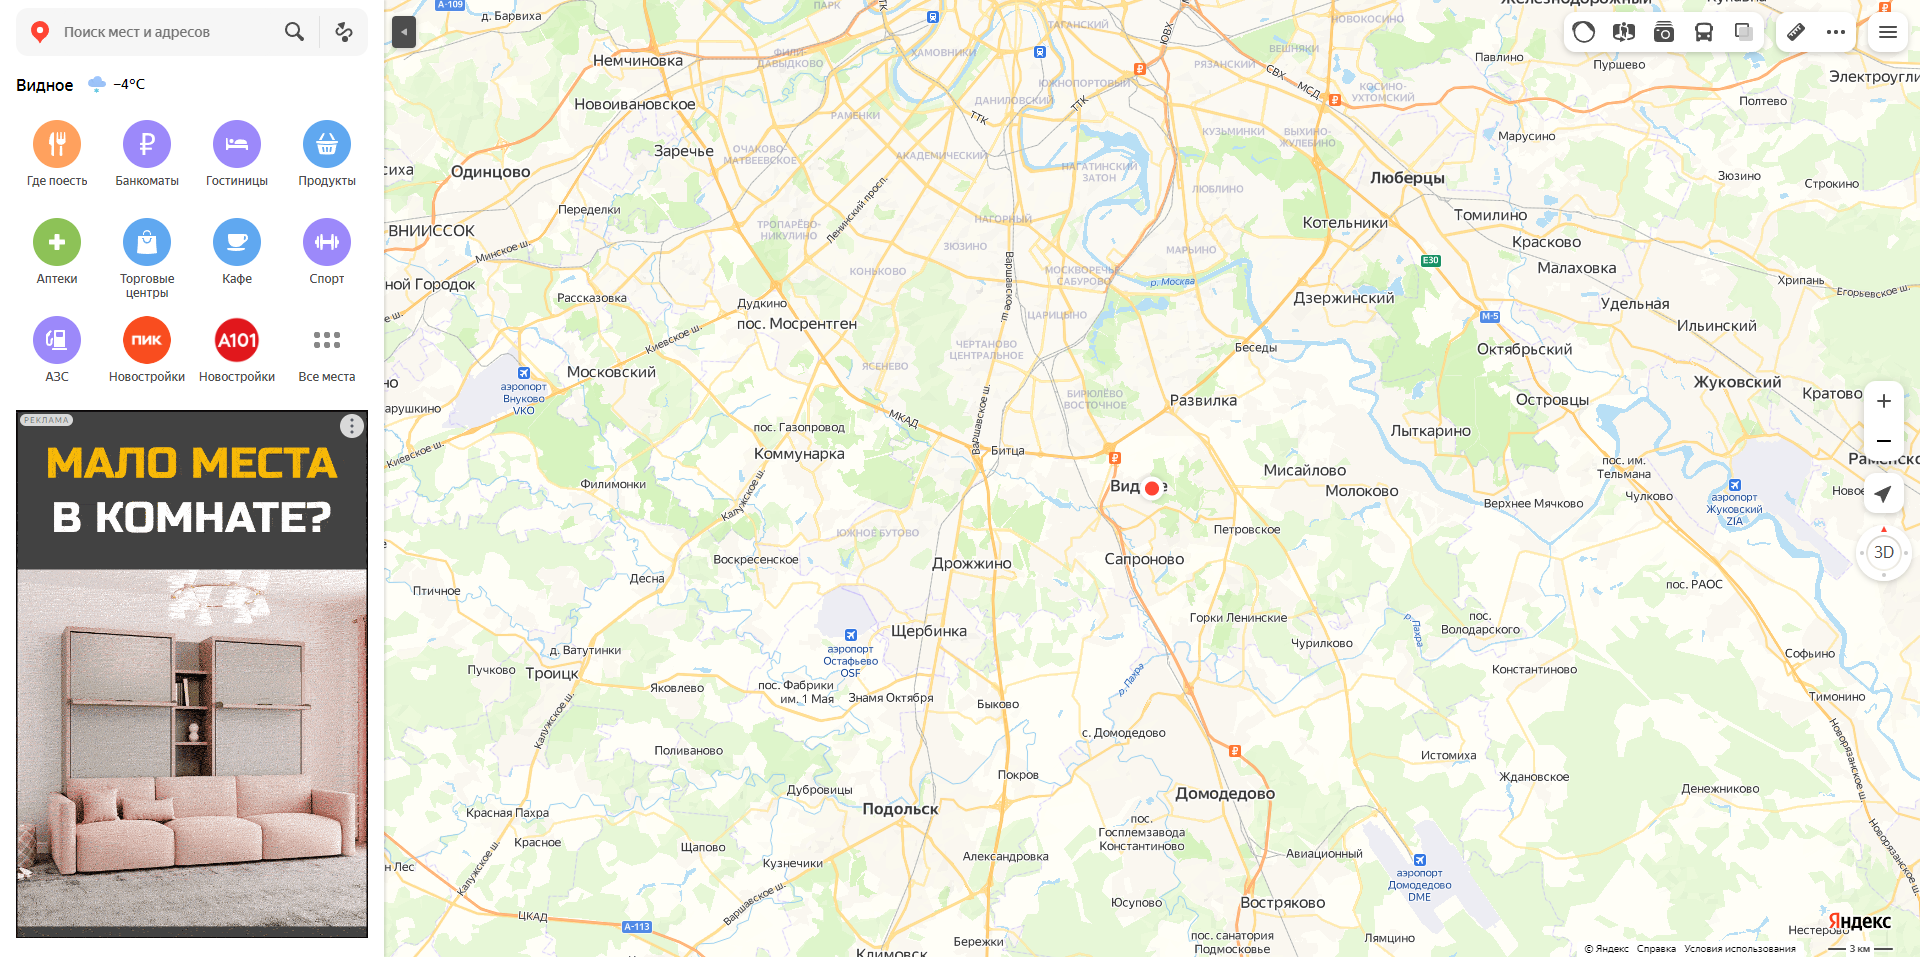
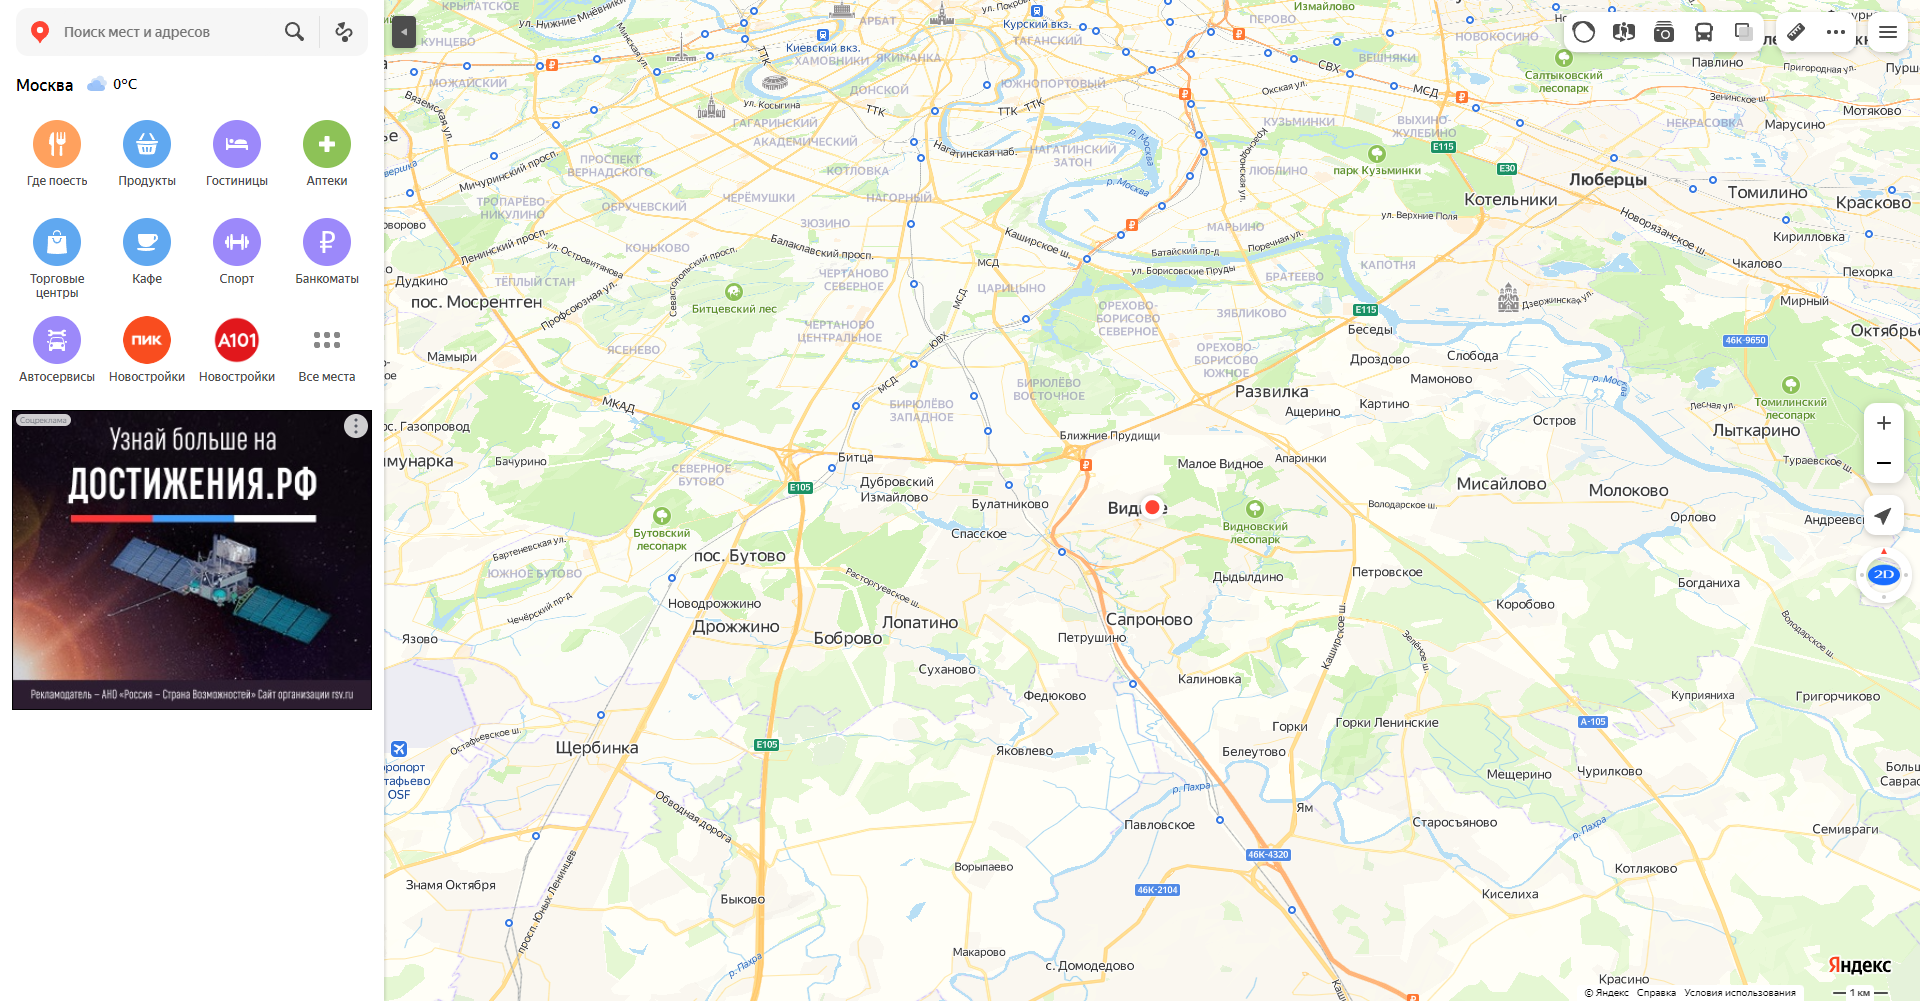
Updated files

diff --git a/tests/map_page_positive.py b/tests/map_page_positive.py
@@ -34,7 +34,7 @@ class TestMapPagePositive:
             page.enter_searching_address(driver, toponyms_name)
             page.wait_page_loaded()
             page.switch_to_3D_map_click(driver)
-            page.increase_map_size()
+            page.increase_map_size(driver)
             page.wait_page_loaded()
         with allure.step("Шаг 3: Выполнить сравнение ожидаемого и фактического результатов теста."):
             parsed_toponyms_name = page.get_toponym_descript(driver)
@@ -42,6 +42,8 @@ class TestMapPagePositive:
                 allure.attach(page.get_page_screenshot_PNG(),
                               name="search_address_FAILED",
                               attachment_type=allure.attachment_type.PNG)
+                page.clear_searching_field(driver)
+                page.switch_off_3D_map_mode(driver)
                 raise Exception("Названия(части названия) искомого топонима нет в результатах поиска системы!")
             else:
                 assert "космонавтики" in parsed_toponyms_name
@@ -50,6 +52,8 @@ class TestMapPagePositive:
                               name="search_address_PASSED",
                               attachment_type=allure.attachment_type.PNG)
                 page.clear_searching_field(driver)
+                page.switch_off_3D_map_mode(driver)
+                print("\nВалидация теста test_search_address_positive выполнена успешно!")
 
     @pytest.mark.geoloc
     @allure.title("Определение геолокации пользователя на карте")
@@ -72,24 +76,26 @@ class TestMapPagePositive:
             page = MainPage(driver)
             page.wait_page_loaded()
         with allure.step("Шаг 2: Нажать на элемент 'Моё местоположение'(стрелка геолокации)."):
-            page.my_current_geoloc_btn_click()
+            page.refresh_page()
             page.wait_page_loaded()
-            page.decrease_map_size(amount="high")
+            page.my_current_geoloc_btn_click(driver)
+            page.wait_page_loaded()
+            page.decrease_map_size(driver, amount="high")
             page.wait_page_loaded()
             parsed_geoloc = page.get_current_geoloc_name(driver)
         with allure.step("Шаг 3: Выполнить сравнение ожидаемого и фактического результатов теста."):
-            if parsed_geoloc not in current_geoloc:
+            if parsed_geoloc == current_geoloc:
+                page.make_screenshot(file_path=screenshots_folder + "\\test_current_geoloc_btn_click.png")
+                allure.attach(page.get_page_screenshot_PNG(),
+                              name="current_geoloc_btn_click_PASSED",
+                              attachment_type=allure.attachment_type.PNG)
+                print("\nВалидация теста test_current_geoloc_btn_click выполнена успешно!")
+            else:
                 allure.attach(page.get_page_screenshot_PNG(),
                               name="current_geoloc_btn_click_FAILED",
                               attachment_type=allure.attachment_type.PNG)
                 raise Exception(f"ОШИБКА! Определенное системой место геолокации пользователя: '{parsed_geoloc}', не "
                                 f"совпадает с фактическим: '{current_geoloc}'.")
-            else:
-                assert parsed_geoloc in current_geoloc
-                page.make_screenshot(file_path=screenshots_folder + "\\test_current_geoloc_btn_click.png")
-                allure.attach(page.get_page_screenshot_PNG(),
-                              name="current_geoloc_btn_click_PASSED",
-                              attachment_type=allure.attachment_type.PNG)
 
     @pytest.mark.map_size
     @allure.title("Увеличение/уменьшение размера изображения карты")
@@ -110,17 +116,17 @@ class TestMapPagePositive:
 
         with allure.step("Шаг 1: Перейти на сайт https://yandex.ru/maps/ и дождаться полной загрузки всех элементов."):
             page = MainPage(driver)
-            page.my_current_geoloc_btn_click()
+            page.my_current_geoloc_btn_click(driver)
             page.wait_page_loaded()
         with allure.step("Шаг 2: Кликнуть элемент 'Отдалить' 3(три) раза"):
-            page.decrease_map_size(amount="high")
+            page.decrease_map_size(driver, amount="high")
             page.wait_page_loaded()
             page.make_screenshot(file_path=screenshots_folder + "\\test_change_map_size_decreased.png")
             allure.attach(page.get_page_screenshot_PNG(),
                           name="change_map_size_btn_decrsd_x_3",
                           attachment_type=allure.attachment_type.PNG)
         with allure.step("Шаг 3: Кликнуть элемент 'Приблизить' 2(два) раза"):
-            page.increase_map_size(amount="medium")
+            page.increase_map_size(driver, amount="medium")
             page.wait_page_loaded()
             page.make_screenshot(file_path=screenshots_folder + "\\test_change_map_size_increased.png")
             allure.attach(page.get_page_screenshot_PNG(),
@@ -150,15 +156,15 @@ class TestMapPagePositive:
 
         with allure.step("Шаг 1: Перейти на сайт https://yandex.ru/maps/ и дождаться полной загрузки всех элементов."):
             page = MainPage(driver)
-            page.my_current_geoloc_btn_click()
-            page.decrease_map_size(amount="low")
+            page.my_current_geoloc_btn_click(driver)
+            page.decrease_map_size(driver, amount="low")
             page.wait_page_loaded()
             allure.attach(page.get_page_screenshot_PNG(),
                           name="3D_map_btn_click_before",
                           attachment_type=allure.attachment_type.PNG)
         with allure.step("Шаг 2: Кликнуть элемент 'Наклонить карту'"):
             page.switch_to_3D_map_click(driver)
-            page.increase_map_size(amount="medium")
+            page.increase_map_size(driver, amount="medium")
             page.wait_page_loaded()
             page.make_screenshot(file_path=screenshots_folder + "\\test_3D_map_btn_click.png")
             allure.attach(page.get_page_screenshot_PNG(),

diff --git a/pages/main_page.py b/pages/main_page.py
@@ -1,3 +1,5 @@
+import time
+
 from selenium.webdriver import ActionChains
 from selenium.webdriver import Keys
 from pages.base_page import BasePage
@@ -12,10 +14,6 @@ class MainPage(BasePage):
 
     def __init__(self, driver, timeout=10):
         super().__init__(driver, timeout)
-
-        self.current_geo_btn = driver.find_element(*MapPageLocators.MAP_MY_GEOLOC_BTN)
-        self.incrise_view_size = driver.find_element(*MapPageLocators.MAP_INCRISE_VIEW_SIZE)
-        self.decrease_view_size = driver.find_element(*MapPageLocators.MAP_DECREASE_VIEW_SIZE)
 
     def enter_searching_address(self, driver, value: str):
         """Поиск топонима на веб-платформе Яндекс.Карты. Передает в поле поиска название(адрес) искомого объекта и
@@ -32,10 +30,11 @@ class MainPage(BasePage):
         clear_search_field = driver.find_element(*MapPageLocators.MAP_CLEAR_FIELD_BTN)
         clear_search_field.click()
 
-
-    def my_current_geoloc_btn_click(self):
+    def my_current_geoloc_btn_click(self, driver):
         """Осуществляет нажатие кнопки 'Моё местоположение' на веб-карте."""
-        self.current_geo_btn.click()
+
+        curent_geoloc = driver.find_element(*MapPageLocators.MAP_MY_GEOLOC_BTN)
+        curent_geoloc.click()
 
     @staticmethod
     def get_current_geoloc_name(driver):
@@ -45,37 +44,56 @@ class MainPage(BasePage):
         geoloc_name = driver.find_element(*MapPageLocators.MAP_MY_GEOLOC_NAME).text
         return geoloc_name
 
-    def increase_map_size(self, amount="low"):
+    def increase_map_size(self, driver, amount="low"):
         """Осуществляет нажатие кнопки 'Приблизить' на карте. Для выбора кратности увеличения масштаба карты можно
         задать значение аргумента amount равным: 'low', 'medium' или 'high'."""
+
         if amount == "low":
-            self.incrise_view_size.click()
+            increase = driver.find_element(*MapPageLocators.MAP_INCREASE_VIEW_SIZE)
+            increase.click()
+            time.sleep(1)
         elif amount == "medium":
-            self.incrise_view_size.click()
-            self.incrise_view_size.click()
+            increase = driver.find_element(*MapPageLocators.MAP_INCREASE_VIEW_SIZE)
+            increase.click()
+            time.sleep(1)
+            increase.click()
+            time.sleep(1)
         elif amount == "high":
-            self.incrise_view_size.click()
-            self.incrise_view_size.click()
-            self.incrise_view_size.click()
+            increase = driver.find_element(*MapPageLocators.MAP_INCREASE_VIEW_SIZE)
+            increase.click()
+            time.sleep(1)
+            increase.click()
+            time.sleep(1)
+            increase.click()
+            time.sleep(1)
         else:
             raise Exception(
                 f"\nОшибка! Методу incrise_map_size() задано некорректное значение параметра amount={amount}!\n"
                 f"Доступные значения:"
                 f"\n'low', 'medium' или 'high'")
 
-    def decrease_map_size(self, amount="low"):
+    def decrease_map_size(self, driver, amount="low"):
         """Осуществляет нажатие кнопки 'Отдалить' на карте. Для выбора кратности уменьшения масштаба карты можно задать
         значение аргумента amount равным: 'low', 'medium' или 'high'."""
 
         if amount == "low":
-            self.decrease_view_size.click()
+            decrease = driver.find_element(*MapPageLocators.MAP_DECREASE_VIEW_SIZE)
+            decrease.click()
+            time.sleep(1)
         elif amount == "medium":
-            self.decrease_view_size.click()
-            self.decrease_view_size.click()
+            decrease = driver.find_element(*MapPageLocators.MAP_DECREASE_VIEW_SIZE)
+            decrease.click()
+            time.sleep(1)
+            decrease.click()
+            time.sleep(1)
         elif amount == "high":
-            self.decrease_view_size.click()
-            self.decrease_view_size.click()
-            self.decrease_view_size.click()
+            decrease = driver.find_element(*MapPageLocators.MAP_DECREASE_VIEW_SIZE)
+            decrease.click()
+            time.sleep(1)
+            decrease.click()
+            time.sleep(1)
+            decrease.click()
+            time.sleep(1)
         else:
             raise Exception(
                 f"\nОшибка! Методу dicrise_map_size() задано некорректное значение параметра amount={amount}!\n"

diff --git a/pages/locators.py b/pages/locators.py
@@ -4,12 +4,12 @@ from selenium.webdriver.common.by import By
 class MapPageLocators:
     """Класс с методами определения локаторов элементов на странице "https://yandex.ru/maps"""
 
-    MAP_SEARCH_FIELD = (By.XPATH, "//input[@placeholder='Поиск мест и адресов']")
-    MAP_MY_GEOLOC_BTN = (By.XPATH, "//button[@aria-label='Моё местоположение']")
+    MAP_SEARCH_FIELD = (By.CSS_SELECTOR, "input[placeholder='Поиск мест и адресов']")
+    MAP_MY_GEOLOC_BTN = (By.CSS_SELECTOR, "button[aria-label='Моё местоположение']")
     MAP_MY_GEOLOC_NAME = (By.CSS_SELECTOR, "h1[class='home-panel-content-view__header-text']")
     MAP_CLEAR_FIELD_BTN = (By.CSS_SELECTOR, "button[aria-label='Закрыть']")
-    MAP_INCRISE_VIEW_SIZE = (By.XPATH, "//button[@aria-label='Приблизить']")
-    MAP_DECREASE_VIEW_SIZE = (By.XPATH, "//button[@aria-label='Отдалить']")
+    MAP_INCREASE_VIEW_SIZE = (By.CSS_SELECTOR, "button[aria-label='Приблизить']")
+    MAP_DECREASE_VIEW_SIZE = (By.CSS_SELECTOR, "button[aria-label='Отдалить']")
     MAP_TOPONYM_DESCRIPTION = (By.LINK_TEXT, "Музей космонавтики")
     MAP_SWITCH_TO_3D_MAP_BTN = (By.CSS_SELECTOR, "div[class='map-tilt-rotate-control__tilt']")
     MAP_SWITCH_OFF_3D_MAP_BTN = (By.CSS_SELECTOR, "div[class='map-tilt-rotate-control__tilt-wrapper']")
